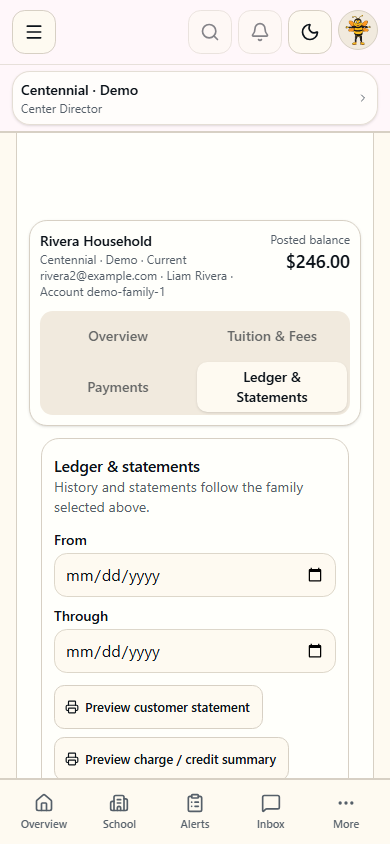
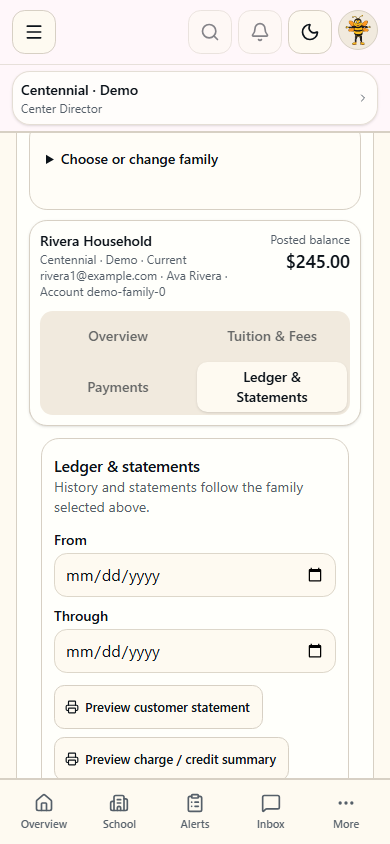
Refresh account projections and preserve billing draft context

diff --git a/src/components/billing-workbench.tsx b/src/components/billing-workbench.tsx
@@ -664,6 +664,7 @@ export function BillingWorkbench({ families, centers, products, tuitionPlans, cu
   const effectiveAssignmentCreditsTotalCents = effectiveAssignmentCredits.reduce((total, credit) => total + credit.amountCents, 0);
   const effectiveAssignmentGrossCents = effectiveAssignmentPlan?.amountCents ?? 0;
   const effectiveAssignmentNetCents = effectiveAssignmentGrossCents + effectiveAssignmentAdditionalChargesTotalCents - effectiveAssignmentCreditsTotalCents;
+  const effectiveAssignmentInvoiceCents = Math.max(0, effectiveAssignmentNetCents) * (effectiveAssignmentCadence === "four_week" ? 4 : effectiveAssignmentCadence === "biweekly" ? 2 : 1);
   const savedSelectedWeeklyTuitionCents = selectedAssignment?.enabled
     && typeof selectedAssignment.amountCents === "number"
     && selectedAssignment.amountCents >= 0
@@ -700,7 +701,7 @@ export function BillingWorkbench({ families, centers, products, tuitionPlans, cu
     planAgeGroup,
   );
   const familyBalanceCents = selectedFamily?.billingAccount?.balanceCents ?? 0;
-  const accountOverview = useBillingAccountOverview({ familyId: effectiveFamilyId, centerId, billingAccountId: selectedBillingAccount?.id ?? "", balanceCents: familyBalanceCents }, accountOverviewFixtures);
+  const accountOverview = useBillingAccountOverview({ familyId: effectiveFamilyId, centerId, billingAccountId: selectedBillingAccount?.id ?? "", balanceCents: familyBalanceCents, paymentStateKey: JSON.stringify(selectedPaymentProgress ?? null), refreshSource: selectedBillingAccount }, accountOverviewFixtures);
   const pendingPaymentCount = accountOverview.data?.pendingCount ?? selectedPaymentProgress?.count ?? 0;
   const pendingAchCreditCents = accountOverview.data?.provisionalAchCreditCents ?? selectedPaymentProgress?.provisionalAchCreditCents ?? 0;
   const selectedAdjustmentOption = oneTimeBillingAdjustmentOption(adjustmentReason) ?? ONE_TIME_BILLING_ADJUSTMENT_OPTIONS[0];
@@ -824,6 +825,7 @@ export function BillingWorkbench({ families, centers, products, tuitionPlans, cu
     || adjustmentReason !== "vacation_credit"
     || dueDate !== draftDates.date || adjustmentEffectiveDate !== draftDates.date
     || billingPeriod !== draftDates.month || weeklyRecoveryPeriod !== draftDates.week
+    || payAheadMonthCount !== "1" || payAheadStartPeriod !== draftDates.month
     || checkPaidAt !== draftDates.localNow || cashPaidAt !== draftDates.localNow || payrollPaidAt !== draftDates.localNow
     || adjustmentAmountDollars.trim()
     || adjustmentNote.trim()
@@ -1165,6 +1167,7 @@ export function BillingWorkbench({ families, centers, products, tuitionPlans, cu
     setAmountDollars("");
     setDueDate(dates.date);
     setBillingPeriod(dates.month);
+    setPayAheadMonthCount("1"); setPayAheadStartPeriod(dates.month);
     setBatchTarget("child");
     setAgeGroup("all");
     setEnrollmentStatus("enrolled");
@@ -3301,14 +3304,14 @@ export function BillingWorkbench({ families, centers, products, tuitionPlans, cu
                 <DisplayValue label={`${effectiveRateCadence === "monthly" ? "Monthly" : "Weekly"} credits`} value={`−${money(effectiveAssignmentCreditsTotalCents)}`} />
                 <DisplayValue
                   label={effectiveAssignmentCadence === "four_week" ? "Every-4-weeks invoice" : effectiveAssignmentCadence === "biweekly" ? "Biweekly invoice" : `Net ${effectiveRateCadence} invoice`}
-                  value={money(Math.max(0, effectiveAssignmentNetCents) * (effectiveAssignmentCadence === "four_week" ? 4 : effectiveAssignmentCadence === "biweekly" ? 2 : 1))}
+                  value={money(effectiveAssignmentInvoiceCents)}
                   detail={effectiveAssignmentCreditsTotalCents >= effectiveAssignmentGrossCents + effectiveAssignmentAdditionalChargesTotalCents && !assignmentIsVoucherFunded
                     ? "Credits must be less than gross tuition"
                     : "Amount added to the family ledger"}
                 />
               </div>
             </details>
-            <SummaryMetric label="Net recurring invoice" value={money(effectiveAssignmentNetCents)} detail="Includes the selected rate, additional lines and recurring credits." />
+            <SummaryMetric label="Net recurring invoice" value={money(effectiveAssignmentInvoiceCents)} detail="Includes the selected rate, additional lines, recurring credits and billing-cycle multiplier." />
             <div className="space-y-1">
               <Label htmlFor="billing-assignment-description">Child tuition label</Label>
               <Input

diff --git a/src/components/billing-director-preview.tsx b/src/components/billing-director-preview.tsx
@@ -1,14 +1,30 @@
+"use client";
+
+import { useMemo, useState } from "react";
+import { useBillingAccountOverview } from "@/components/use-billing-account-overview";
+import { parentPaymentAmountCents } from "@/lib/parent-billing-visibility";
 import { BillingWorkbench } from "@/components/billing-workbench";
 import { PaymentReceiptPrintButton } from "@/components/billing-print-actions";
-import { center, families, schools, entries, accounts, accountOverviewFixtures } from "@/lib/billing-director-demo-data";
+import { center, families, schools, entries, accounts, accountOverviewFixtures, tuitionPlans } from "@/lib/billing-director-demo-data";
 
 export function BillingDirectorPreview({ familyId, section, category, centerId }: { familyId?: string; section?: string; category?: string; centerId?: string }) {
   return <div className="space-y-4">
     <div><h1 className="text-2xl font-semibold">Billing &amp; invoices</h1><p className="text-sm text-muted-foreground">{center.name} director workflow · synthetic demo data</p></div>
-    <BillingWorkbench families={families} centers={[center, { ...center, id: "demo-empty-school", name: "Empty school · Demo" }]} products={[]} tuitionPlans={[]} currentRole="CENTER_DIRECTOR" canOpenFamilyProfile={false} canManageEnrollment={false} initialCenterId={centerId || center.id} initialFamilyId={familyId || (!category && !centerId ? families[0].id : undefined)} initialSection={section} initialCategory={category} ledger={{ entries, accounts, schools }} accountOverviewFixtures={accountOverviewFixtures} />
+    <BillingWorkbench families={families} centers={[center, { ...center, id: "demo-empty-school", name: "Empty school · Demo" }]} products={[]} tuitionPlans={tuitionPlans} currentRole="CENTER_DIRECTOR" canOpenFamilyProfile={false} canManageEnrollment={false} initialCenterId={centerId || center.id} initialFamilyId={familyId || (!category && !centerId ? families[0].id : undefined)} initialSection={section} initialCategory={category} ledger={{ entries, accounts, schools }} accountOverviewFixtures={accountOverviewFixtures} />
   </div>;
 }
 
 export function BillingDirectorReceiptPreview() {
   return <section><h1 className="mb-4 text-2xl font-semibold">Synthetic director receipt review</h1><PaymentReceiptPrintButton preview schools={schools} payment={{ id: "demo-payment", amountCents: 10000, status: "PAID", provider: "manual_cash", externalIdPlaceholder: "DEMO-RECEIPT-1", paidAt: "2026-10-26T12:00:00Z", invoiceNumber: "DEMO-1042", paymentReferenceLabel: "Demo weekly tuition", billingAccount: { family: families[0] } }} /></section>;
+}
+
+export function BillingOverviewRefreshPreview() {
+  const [processing, setProcessing] = useState(false);
+  const fixture = useMemo(() => {
+    const credit = processing ? 10000 : 0;
+    const account = { balanceCents: 24500, paymentProgress: { phase: "ach_processing", count: processing ? 1 : 0, provisionalAchCreditCents: credit } };
+    return { account, summaries: { "demo-family-0": { familyId: "demo-family-0", centerId: center.id, billingAccountId: "demo-account-0", postedBalanceCents: account.balanceCents, collectibleCents: parentPaymentAmountCents({ accountBalanceCents: account.balanceCents, agencyLedgerEntries: [], provisionalCreditCents: credit }), responsibilityReviewRequired: false, pendingCount: account.paymentProgress.count, provisionalAchCreditCents: credit } } };
+  }, [processing]);
+  const overview = useBillingAccountOverview({ familyId: "demo-family-0", centerId: center.id, billingAccountId: "demo-account-0", balanceCents: fixture.account.balanceCents, paymentStateKey: JSON.stringify(fixture.account.paymentProgress), refreshSource: fixture.account }, fixture.summaries);
+  return <section><h1>Account overview refresh fixture</h1><p>Posted balance: $245.00</p><p role="status">{overview.data ? `Pending: ${overview.data.pendingCount}; collectible: ${overview.data.collectibleCents}` : "Checking account"}</p><button type="button" onClick={() => setProcessing(true)}>Simulate pending ACH props</button></section>;
 }

diff --git a/src/app/device-preview/page.tsx b/src/app/device-preview/page.tsx
@@ -5,7 +5,7 @@ import { AppShell } from "@/components/app-shell";
 import { AutomationWorkflowBuilder, type AutomationWorkflowBuilderData } from "@/components/automation-workflow-builder";
 import { DevicePreviewGuard } from "@/components/device-preview-guard";
 import { BILLING_DIRECTOR_DEMO_SCHOOL_NAME } from "@/lib/billing-director-demo-data";
-import { BillingDirectorPreview, BillingDirectorReceiptPreview } from "@/components/billing-director-preview";
+import { BillingDirectorPreview, BillingDirectorReceiptPreview, BillingOverviewRefreshPreview } from "@/components/billing-director-preview";
 import { ExecutiveDashboard } from "@/components/dashboard";
 import { KioskCheckIn } from "@/components/kiosk-check-in";
 import { TeacherMobileWorkspace } from "@/components/teacher-mobile-workspace";
@@ -334,6 +334,7 @@ function ShellPreview({ role, screen, familySection, scenario, updateDay, billin
     return <AppShell previewMode previewHrefBase={`/device-preview?view=${role}`} currentUser={{ name: regional ? "Riley Morgan" : "Casey Bennett", email: `${role}@example.com`, role: regional ? "REGIONAL_MANAGER" : "PLATFORM_OWNER", accessScope: regional ? "tenant" : "platform", centerIds: ["preview-center", "preview-center-two", "preview-center-three"], timeZone: "America/Indiana/Indianapolis", workspace, scopeContext: { kind: selectedSchool ? "school" : "portfolio", label: workspace.label, detail: `${selectedSchool ? "Sunshine Group · Carmel, IN" : "3 schools"} · ${regional ? "Regional Manager" : "Platform Owner"}`, href: "/multi-location-dashboard" } }}><PortfolioPreview regional={regional} scenario={scenario} /></AppShell>;
   }
   if (role === "billing") {
+    if (scenario === "overview-refresh") return <BillingOverviewRefreshPreview />;
     if (scenario === "director-receipt") return <AppShell previewMode previewHrefBase="/device-preview?view=billing" currentUser={{ name: "Jamie Patel", email: "director@example.com", role: "CENTER_DIRECTOR", centerIds: ["preview-center"], timeZone: "America/Denver" }}><BillingDirectorReceiptPreview /></AppShell>;
     if (scenario === "director-ux") return <AppShell previewMode previewHrefBase="/device-preview?view=billing&scenario=director-ux" currentUser={{ name: "Jamie Patel", email: "director@example.com", role: "CENTER_DIRECTOR", centerIds: ["preview-center"], timeZone: "America/Denver", scopeContext: { kind: "school", label: BILLING_DIRECTOR_DEMO_SCHOOL_NAME, detail: "Center Director", href: "/billing-invoices" } }}><BillingDirectorPreview familyId={billingFamilyId} section={billingSection} category={billingCategory} centerId={billingCenterId} /></AppShell>;
     return <AppShell previewMode previewHrefBase="/device-preview?view=billing" currentUser={{ name: "Jamie Patel", email: "billing@example.com", role: "BILLING_ADMIN", centerIds: ["preview-center"], timeZone: "America/Indiana/Indianapolis", scopeContext: { kind: "school", label: "Sunshine Academy", detail: "Billing Admin · 1 school", href: "/billing-invoices" } }}><BillingPreview /></AppShell>;

diff --git a/src/components/use-billing-account-overview.ts b/src/components/use-billing-account-overview.ts
@@ -1,13 +1,16 @@
 "use client";
 
-import { useEffect, useState } from "react";
+import { useEffect, useMemo, useState } from "react";
 import { requestBillingAccountOverview, type BillingAccountOverview } from "@/lib/billing-account-overview";
 
-export function useBillingAccountOverview(target: { familyId: string; centerId: string; billingAccountId: string; balanceCents: number }, fixtures?: Record<string, BillingAccountOverview>) {
-  const { familyId, centerId, billingAccountId, balanceCents } = target;
-  const key = JSON.stringify([familyId, centerId, billingAccountId, balanceCents]);
-  const [result, setResult] = useState<{ key: string; data?: BillingAccountOverview; error?: boolean }>();
+export function useBillingAccountOverview(target: { familyId: string; centerId: string; billingAccountId: string; balanceCents: number; paymentStateKey?: string; refreshSource?: object | null }, fixtures?: Record<string, BillingAccountOverview>) {
+  const { familyId, centerId, billingAccountId, balanceCents, paymentStateKey, refreshSource } = target;
+  const key = JSON.stringify([familyId, centerId, billingAccountId, balanceCents, paymentStateKey]);
+  const [result, setResult] = useState<{ context: object; data?: BillingAccountOverview; error?: boolean }>();
   const [revision, setRevision] = useState(0);
+  // A server refresh may change processing/agency state while the posted balance stays put.
+  // A fresh context also prevents an older A result from reappearing during A -> B -> A.
+  const context = useMemo(() => ({ key, refreshSource, revision }), [key, refreshSource, revision]);
   useEffect(() => {
     if (!familyId || !centerId || !billingAccountId) return;
     return requestBillingAccountOverview({
@@ -18,9 +21,9 @@ export function useBillingAccountOverview(target: { familyId: string; centerId: 
         if (!response.ok) throw new Error("Account overview unavailable");
         return response.json();
       },
-      onResult: data => setResult({ key, data }),
-      onError: () => setResult({ key, error: true }),
+      onResult: data => setResult({ context, data }),
+      onError: () => setResult({ context, error: true }),
     });
-  }, [familyId, centerId, billingAccountId, balanceCents, key, revision, fixtures]);
-  return { data: result?.key === key ? result.data : undefined, error: result?.key === key && result.error, retry: () => { setResult(undefined); setRevision(value => value + 1); } };
+  }, [familyId, centerId, billingAccountId, context, fixtures]);
+  return { data: result?.context === context ? result.data : undefined, error: result?.context === context && result.error, retry: () => setRevision(value => value + 1) };
 }

diff --git a/src/lib/billing-director-demo-data.ts b/src/lib/billing-director-demo-data.ts
@@ -23,3 +23,6 @@ export const accounts = families.map(family => ({ familyId: family.id, familyNam
 export const entries = families.map(family => ({ id: `entry-${family.id}`, type: "tuition_charge", description: `Demo tuition · ${family.children[0].fullName}`, amountCents: family.billingAccount!.balanceCents, balanceAfterCents: family.billingAccount!.balanceCents, effectiveAt: "2026-10-26T12:00:00Z", billingAccount: { family } }));
 
 export const BILLING_DIRECTOR_DEMO_SCHOOL_NAME = center.name;
+
+export const tuitionPlans = [{ id: "demo-weekly-plan", centerId: center.id, name: "Demo weekly tuition", ageGroup: "Pre-K", cadence: "weekly", amountCents: 25000 }];
+families[1].children[0].tuitionAssignment = { enabled: true, tuitionPlanId: tuitionPlans[0].id, tuitionPlanName: tuitionPlans[0].name, cadence: "biweekly", amountCents: 25000, grossAmountCents: 25000, additionalCharges: [], additionalChargesTotalCents: 0, credits: [], creditsTotalCents: 0, netAmountCents: 25000, billingDay: 4, startsPeriod: "2026-W44", description: "Demo biweekly tuition" };

diff --git a/docs/reviews/billing-director-ux-2026-10-30/README.md b/docs/reviews/billing-director-ux-2026-10-30/README.md
@@ -29,12 +29,13 @@ The scoped change does not alter database schema, financial calculation implemen
 | Phone ledger | Separate selector appears in the desktop baseline | [Ledger follows the chosen family](after-mobile-ledger.png) |
 | Customer statement | Immediate browser print request; no onscreen preview | [Visible statement review](after-desktop-statement-preview.png) |
 
-The before images were captured before changing the workbench, using the same synthetic data. The after shell identifies the synthetic Centennial director explicitly. Phone screenshots show the viewport of the app's scrollable workspace; desktop before/after images capture the document. These are demo observations, not a production usability session or timing study.
+The before images were captured before changing the workbench, using the same synthetic family and account balances. The after shell identifies the synthetic Centennial director explicitly. Phone screenshots show the viewport of the app's scrollable workspace; desktop before/after images capture the document. These are demo observations, not a production usability session or timing study.
 
 ## Validation
 
 - Focused behavioral and regression checks: 117 passed, including exact selection, checkout-summary authorization and response identity, stale response cancellation even when abort is ignored, ledger date/history semantics, current/past/pending restrictions, auditor boundaries, child setup and existing atomic tuition-rate saves.
 - Browser QA: [retained results](browser-results.json). All four sections tested at 1440 × 1000, 834 × 1112, 390 × 844 and 320 × 740. No horizontal document overflow; section targets are at least 44 pixels tall. Persistent context was checked while scrolling the actual workspace.
+- Review follow-up regressions: a $250 weekly rate shows a $500 biweekly invoice and a $1,000 four-week invoice; a pending ACH update refreshes the actual overview hook without changing the posted balance; pay-ahead inputs warn before switching and reset only after confirmed discard.
 - Keyboard selection of a duplicate household, category changes, missing-family and empty-category states, refresh recovery, cancelled/confirmed draft loss, ledger synchronization and date-range retention were exercised.
 - The financial review/lock check used an in-memory response. The browser emitted zero API requests and zero application runtime errors.
 - Axe WCAG A/AA checks of the changed workbench: zero violations in all four sections on desktop and mobile. A recurring-tuition panel ID that broke its tab's `aria-controls` was corrected.
